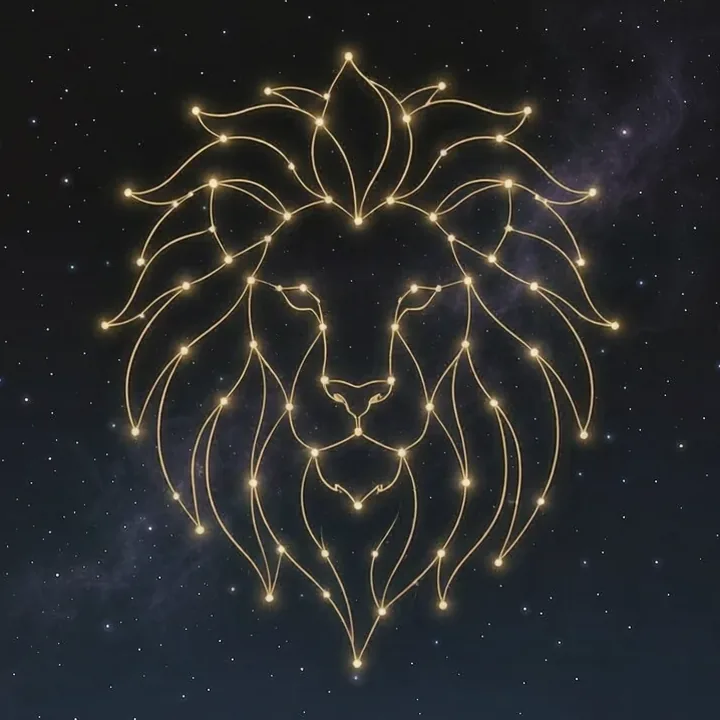
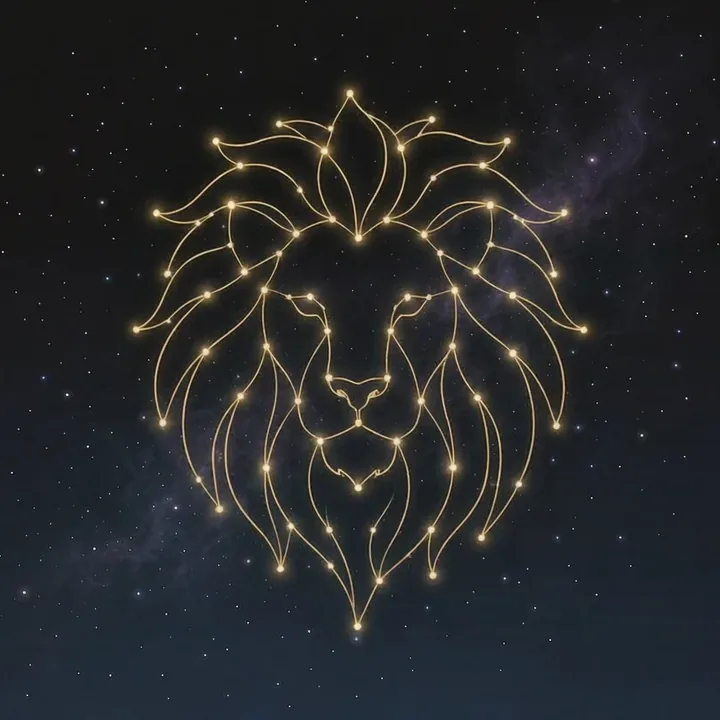
星座图放宽留白至16%：主体完整收入圆内；版本戳e

Changed region(s): [[0.1222, 0.0611, 0.8861, 0.9472], [0.9167, 0.1222, 0.9472, 0.1528], [0.8556, 0.1833, 0.8861, 0.2139]]

diff --git a/index.html b/index.html
@@ -5,11 +5,11 @@
   <meta name="viewport" content="width=device-width, initial-scale=1, maximum-scale=1, viewport-fit=cover">
   <meta name="description" content="今日宜签 · 卜卦 / 星座 / 手相 / 塔罗 娱乐向工具（网页版，纯本地，仅供娱乐）">
   <title>今日宜签 · 网页版</title>
-  <link rel="stylesheet" href="css/tokens.css?v=20261028d">
-  <link rel="stylesheet" href="css/themes.css?v=20261028d">
-  <link rel="stylesheet" href="css/base.css?v=20261028d">
-  <link rel="stylesheet" href="css/ui.css?v=20261028d">
-  <link rel="stylesheet" href="css/pages/index.css?v=20261028d" id="pageCssLink">
+  <link rel="stylesheet" href="css/tokens.css?v=20261028e">
+  <link rel="stylesheet" href="css/themes.css?v=20261028e">
+  <link rel="stylesheet" href="css/base.css?v=20261028e">
+  <link rel="stylesheet" href="css/ui.css?v=20261028e">
+  <link rel="stylesheet" href="css/pages/index.css?v=20261028e" id="pageCssLink">
 </head>
 <body class="t-root">
   <nav class="w-nav" id="wNav">
@@ -20,47 +20,47 @@
   <div class="w-ui" id="wUi"></div>
 
   <!-- 运行时（wx 兼容层 / 路由 / 组件渲染器） -->
-  <script src="js/core.js?v=20261028d"></script>
+  <script src="js/core.js?v=20261028e"></script>
 
   <!-- 数据与工具模块（由 utils/ 转写） -->
-  <script src="js/modules/asset-manifest.js?v=20261028d"></script>
-  <script src="js/modules/data.js?v=20261028d"></script>
-  <script src="js/modules/db/hexagrams.js?v=20261028d"></script>
-  <script src="js/modules/db/poems.js?v=20261028d"></script>
-  <script src="js/modules/db/tarot.js?v=20261028d"></script>
-  <script src="js/modules/content.js?v=20261028d"></script>
-  <script src="js/modules/hexagram.js?v=20261028d"></script>
-  <script src="js/modules/theme.js?v=20261028d"></script>
-  <script src="js/modules/links.js?v=20261028d"></script>
-  <script src="js/modules/util.js?v=20261028d"></script>
-  <script src="js/modules/store.js?v=20261028d"></script>
-  <script src="js/modules/daily.js?v=20261028d"></script>
-  <script src="js/modules/images.js?v=20261028d"></script>
-  <script src="js/modules/sfx.js?v=20261028d"></script>
-  <script src="js/modules/poster.js?v=20261028d"></script>
-  <script src="js/modules/palm/config.js?v=20261028d"></script>
-  <script src="js/modules/palm/quality.js?v=20261028d"></script>
-  <script src="js/modules/palm/providers-mock.js?v=20261028d"></script>
-  <script src="js/modules/palm/providers-cloud.js?v=20261028d"></script>
-  <script src="js/modules/palm/vision.js?v=20261028d"></script>
+  <script src="js/modules/asset-manifest.js?v=20261028e"></script>
+  <script src="js/modules/data.js?v=20261028e"></script>
+  <script src="js/modules/db/hexagrams.js?v=20261028e"></script>
+  <script src="js/modules/db/poems.js?v=20261028e"></script>
+  <script src="js/modules/db/tarot.js?v=20261028e"></script>
+  <script src="js/modules/content.js?v=20261028e"></script>
+  <script src="js/modules/hexagram.js?v=20261028e"></script>
+  <script src="js/modules/theme.js?v=20261028e"></script>
+  <script src="js/modules/links.js?v=20261028e"></script>
+  <script src="js/modules/util.js?v=20261028e"></script>
+  <script src="js/modules/store.js?v=20261028e"></script>
+  <script src="js/modules/daily.js?v=20261028e"></script>
+  <script src="js/modules/images.js?v=20261028e"></script>
+  <script src="js/modules/sfx.js?v=20261028e"></script>
+  <script src="js/modules/poster.js?v=20261028e"></script>
+  <script src="js/modules/palm/config.js?v=20261028e"></script>
+  <script src="js/modules/palm/quality.js?v=20261028e"></script>
+  <script src="js/modules/palm/providers-mock.js?v=20261028e"></script>
+  <script src="js/modules/palm/providers-cloud.js?v=20261028e"></script>
+  <script src="js/modules/palm/vision.js?v=20261028e"></script>
 
   <!-- 页面（17 个，由 pages/* 与 package-tarot 转写） -->
-  <script src="js/pages/about.js?v=20261028d"></script>
-  <script src="js/pages/daily-calendar.js?v=20261028d"></script>
-  <script src="js/pages/daily-index.js?v=20261028d"></script>
-  <script src="js/pages/divination-cast.js?v=20261028d"></script>
-  <script src="js/pages/divination-glossary.js?v=20261028d"></script>
-  <script src="js/pages/divination-index.js?v=20261028d"></script>
-  <script src="js/pages/history.js?v=20261028d"></script>
-  <script src="js/pages/index.js?v=20261028d"></script>
-  <script src="js/pages/palm-index.js?v=20261028d"></script>
-  <script src="js/pages/palm-lines.js?v=20261028d"></script>
-  <script src="js/pages/palm-reading.js?v=20261028d"></script>
-  <script src="js/pages/tarot-cards.js?v=20261028d"></script>
-  <script src="js/pages/tarot-index.js?v=20261028d"></script>
-  <script src="js/pages/tarot-reading.js?v=20261028d"></script>
-  <script src="js/pages/zodiac-detail.js?v=20261028d"></script>
-  <script src="js/pages/zodiac-index.js?v=20261028d"></script>
-  <script src="js/pages/zodiac-match.js?v=20261028d"></script>
+  <script src="js/pages/about.js?v=20261028e"></script>
+  <script src="js/pages/daily-calendar.js?v=20261028e"></script>
+  <script src="js/pages/daily-index.js?v=20261028e"></script>
+  <script src="js/pages/divination-cast.js?v=20261028e"></script>
+  <script src="js/pages/divination-glossary.js?v=20261028e"></script>
+  <script src="js/pages/divination-index.js?v=20261028e"></script>
+  <script src="js/pages/history.js?v=20261028e"></script>
+  <script src="js/pages/index.js?v=20261028e"></script>
+  <script src="js/pages/palm-index.js?v=20261028e"></script>
+  <script src="js/pages/palm-lines.js?v=20261028e"></script>
+  <script src="js/pages/palm-reading.js?v=20261028e"></script>
+  <script src="js/pages/tarot-cards.js?v=20261028e"></script>
+  <script src="js/pages/tarot-index.js?v=20261028e"></script>
+  <script src="js/pages/tarot-reading.js?v=20261028e"></script>
+  <script src="js/pages/zodiac-detail.js?v=20261028e"></script>
+  <script src="js/pages/zodiac-index.js?v=20261028e"></script>
+  <script src="js/pages/zodiac-match.js?v=20261028e"></script>
 </body>
 </html>

diff --git a/js/core.js b/js/core.js
@@ -191,7 +191,7 @@
   }
 
   function swapCss(inst) {
-    var css = 'css/pages/' + ((inst && inst.cssFile) || 'index') + '.css?v=20261028d';
+    var css = 'css/pages/' + ((inst && inst.cssFile) || 'index') + '.css?v=20261028e';
     var link = document.getElementById('pageCssLink');
     if (!link) {
       link = document.createElement('link');

diff --git a/js/modules/images.js b/js/modules/images.js
@@ -79,7 +79,7 @@ var MAP = {
 var PKG_BASE = { 'tarot/': 'assets/tarot/' }
 
 // 缓存刷新戳：整批调整图片后改这个值，强制全网 CDN / 浏览器缓存失效
-var ASSET_V = '?v=20261028d'
+var ASSET_V = '?v=20261028e'
 
 function resolve(key) {
   if (!key) return ''

diff --git a/scripts/reprocess_zodiac3.py b/scripts/reprocess_zodiac3.py
@@ -42,7 +42,7 @@ for fn in sorted(os.listdir(ROOT)):
         print('  skip(无金色主体):', fn)
         continue
     x0, y0, x1, y1 = bb
-    mw, mh = int((x1 - x0) * 0.08), int((y1 - y0) * 0.08)
+    mw, mh = int((x1 - x0) * 0.16), int((y1 - y0) * 0.16)
     x0, y0 = max(0, x0 - mw), max(0, y0 - mh)
     x1, y1 = min(W, x1 + mw), min(H, y1 + mh)
     side = max(x1 - x0, y1 - y0)
